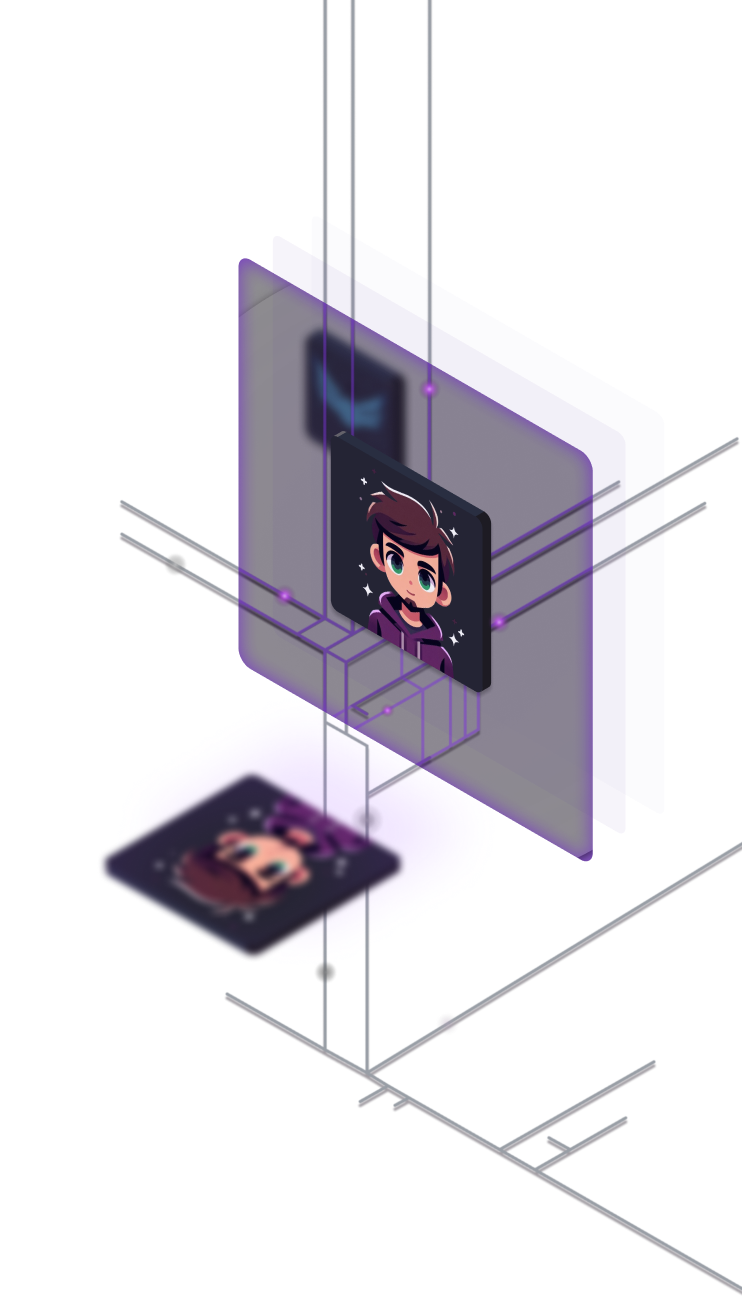
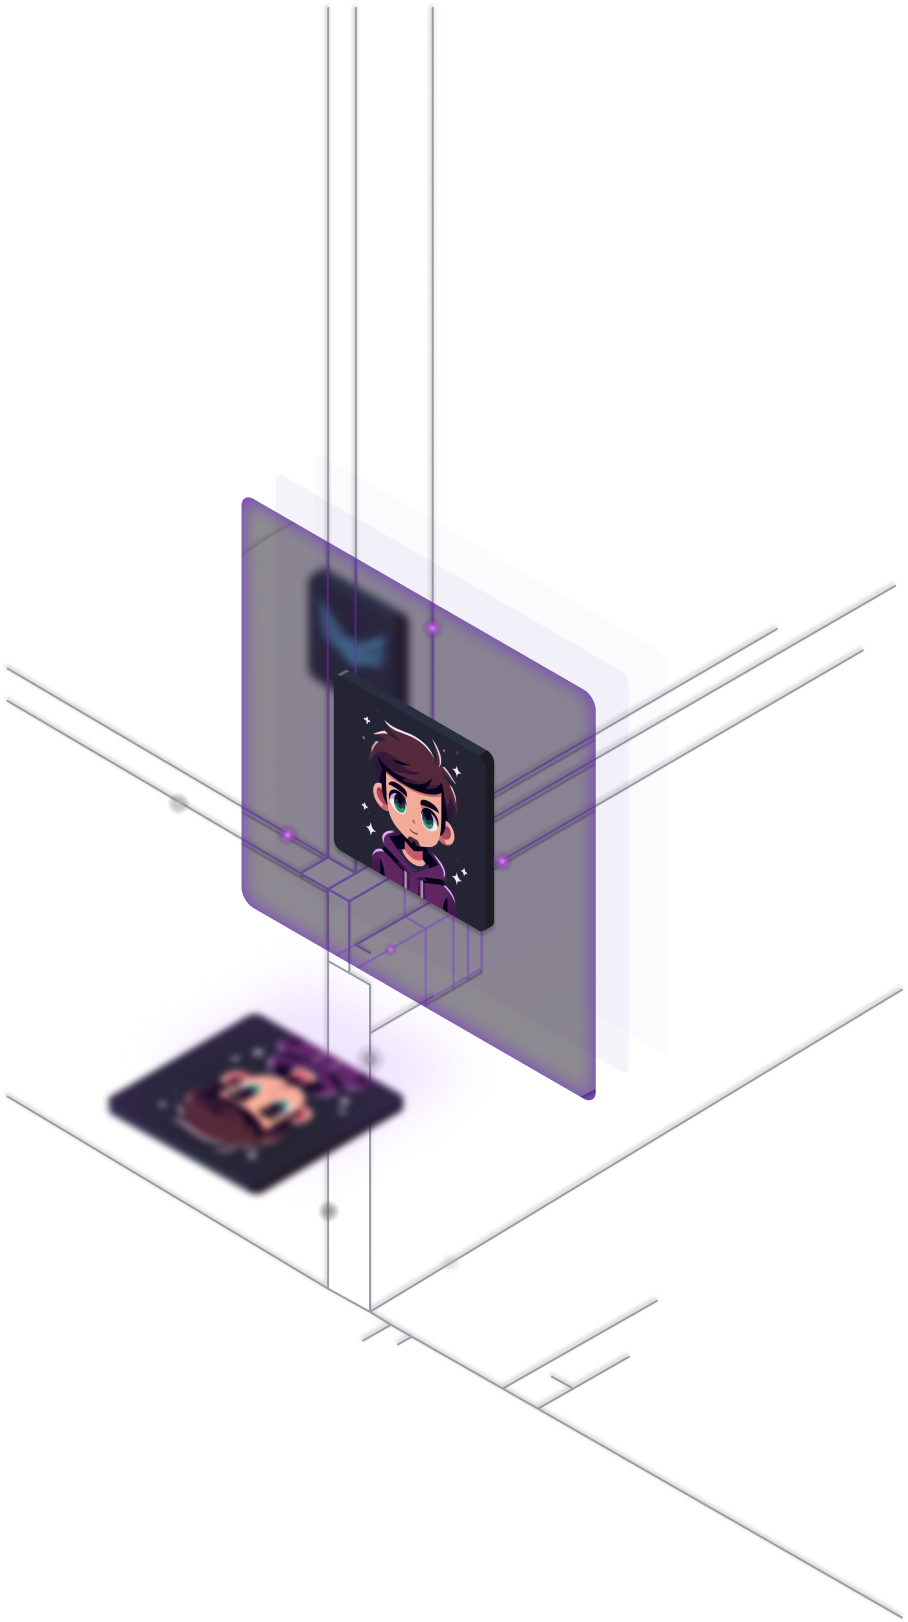
adjusted hero image

diff --git a/src/pages/Hero.tsx b/src/pages/Hero.tsx
@@ -30,12 +30,12 @@ const Hero = ({ handleNavigate }: { handleNavigate: (id: NavTypes) => void }) =>
             </Button>
           </div>
         </div>
-        <div className="flex w-full flex-shrink-0 h-full absolute right-0 top-0 opacity-40 md:opacity-100">
+        <div className="opacity-40 md:opacity-100">
           <div
-            className="absolute -translate-y-1/2 top-1/2 "
-            style={{ height: "130vh", maxHeight: "1250px", right: "-7rem", top: "54vh" }}
+            className="absolute -translate-y-1/2 top-1/2 -right-72 w-max"
+            style={{ height: "130vh" }}
           >
-            <img src={HeroBackground} style={{ height: "100%", objectFit: "cover" }} />
+            <img src={HeroBackground} style={{ objectFit: "contain", height: "100%" }} />
           </div>
           <img
             src={ReactIcon}

diff --git a/src/App.css b/src/App.css
@@ -39,7 +39,7 @@
     transform: translateY(0);
   }
   50% {
-    transform: translateY(-10px);
+    transform: translateY(-14px);
   }
 }
 .float-animation {
